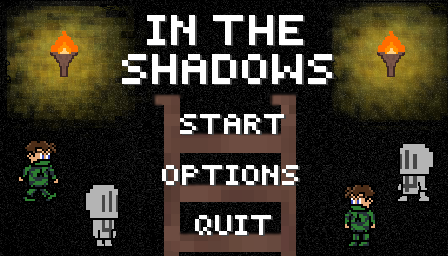
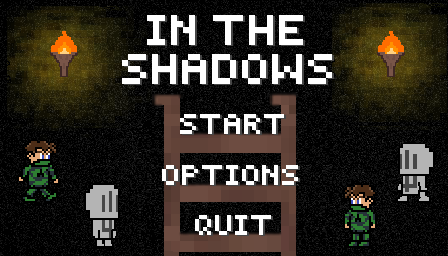
New options screen + all old functionality

Changed region(s): [[0.0, 0.0, 0.2812, 0.4688], [0.7188, 0.0, 1.0, 0.4688]]

diff --git a/entities/game.py b/entities/game.py
@@ -113,6 +113,8 @@ class Game:
                     self.__board.resize_board(self.__screen, self.__width, self.__height)
                     self.__set_player_and_guards()
                     self.__fullscreen = True
+            elif self.__rects['options_back_button'].collidepoint(mouse_pos):
+                self.__state = 'menu'
 
     # Handles quitting, key presses, and mouse clicks, including in game
     def __handle_events(self):
@@ -203,6 +205,7 @@ class Game:
         self.__rects['quit_text_rect'] = quit_text.get_rect()
         self.__rects['quit_text_rect'].center = (1.02*quit_width, quit_height + 1.6*quit_height // 4)
 
+        # animates torches
         if self.__home_screen_anim:
             background = pygame.image.load("assets/graphics/Backgrounds/Home_screen_1.png")
         else:
@@ -217,8 +220,16 @@ class Game:
 
     # Runs the options
     def __run_options(self):
-        background = pygame.image.load("assets/graphics/Backgrounds/woodBackground.png")
+        if self.__move_counter % 15 == 0:
+            self.__home_screen_anim = not self.__home_screen_anim
+
+        # animates torches
+        if self.__home_screen_anim:
+            background = pygame.image.load("assets/graphics/Backgrounds/Options_1.png")
+        else:
+            background = pygame.image.load("assets/graphics/Backgrounds/Options_2.png")
         background = pygame.transform.scale(background, (self.__width, self.__height))
+
         self.__screen.background_surface.fill(self.__black)
         self.__screen.background_surface.blit(background, (0, 0))
 
@@ -229,63 +240,72 @@ class Game:
         text = big_font.render('OPTIONS', True, self.__white)
         text_rect = text.get_rect()
         text_rect.center = (opt_width, opt_height)
-        self.__screen.background_surface.blit(text, text_rect)
+        # self.__screen.background_surface.blit(text, text_rect)
 
         (diff_width, diff_height) = (opt_width // 2, opt_height + self.__height // 6)
-        difficulty = small_font.render('SELECT DIFFICULTY', True, (255, 255, 255))
-        difficulty_rect = difficulty.get_rect()
-        difficulty_rect.center = (diff_width, diff_height)
-        self.__screen.background_surface.blit(difficulty, difficulty_rect)
+        # difficulty = small_font.render('SELECT DIFFICULTY', True, (255, 255, 255))
+        # difficulty_rect = difficulty.get_rect()
+        # difficulty_rect.center = (diff_width, diff_height)
+        # self.__screen.background_surface.blit(difficulty, difficulty_rect)
+
+        # back button
+        self.__rects['options_back_button'] = pygame.Rect((0.05*self.__width, 0.06*self.__height), (0.08*self.__width, 0.09*self.__height))
 
         (easy_width, easy_height) = (diff_width, diff_height + self.__height // 8)
-        easy_difficulty = small_font.render('EASY', True, (0, 153, 0))
+        easy_difficulty = small_font.render('EASY_', True, (0, 153, 0))
         self.__rects['easy_difficulty_rect'] = easy_difficulty.get_rect()
         self.__rects['easy_difficulty_rect'].center = (easy_width, easy_height)
-        self.__screen.background_surface.blit(easy_difficulty, self.__rects['easy_difficulty_rect'])
+        # self.__screen.background_surface.blit(easy_difficulty, self.__rects['easy_difficulty_rect'])
 
-        (med_width, med_height) = (diff_width, easy_height + self.__height // 8)
-        medium_difficulty = small_font.render('MEDIUM', True, (255, 128, 0))
+        (med_width, med_height) = (diff_width, easy_height + 1.27*self.__height // 8)
+        medium_difficulty = small_font.render('_MEDIUM_', True, (255, 128, 0))
         self.__rects['medium_difficulty_rect'] = medium_difficulty.get_rect()
         self.__rects['medium_difficulty_rect'].center = (med_width, med_height)
-        self.__screen.background_surface.blit(medium_difficulty, self.__rects['medium_difficulty_rect'])
+        # self.__screen.background_surface.blit(medium_difficulty, self.__rects['medium_difficulty_rect'])
 
-        (hard_width, hard_height) = (diff_width, med_height + self.__height // 8)
-        hard_difficulty = small_font.render('HARD', True, (255, 0, 0))
+        (hard_width, hard_height) = (diff_width, med_height + 1.30*self.__height // 8)
+        hard_difficulty = small_font.render('HARD_', True, (255, 0, 0))
         self.__rects['hard_difficulty_rect'] = hard_difficulty.get_rect()
         self.__rects['hard_difficulty_rect'].center = (hard_width, hard_height)
-        self.__screen.background_surface.blit(hard_difficulty, self.__rects['hard_difficulty_rect'])
+        # self.__screen.background_surface.blit(hard_difficulty, self.__rects['hard_difficulty_rect'])
 
         match self.__difficulty:
             case "EASY":
-                color = (0, 153, 0)
+                mode = pygame.image.load("assets/graphics/Backgrounds/Options_easy.png")
+                # color = (0, 153, 0)
             case "MEDIUM":
-                color = (255, 128, 0)
+                mode = pygame.image.load("assets/graphics/Backgrounds/Options_medium.png")
+                # color = (255, 128, 0)
             case "HARD":
-                color = (255, 0, 0)
+                mode = pygame.image.load("assets/graphics/Backgrounds/Options_hard.png")
+                # color = (255, 0, 0)
             case _:
-                color = (255, 255, 255)
-        text = small_font.render(str(self.__difficulty) + "  MODE  CHOSEN!", True, color)
-        text_rect = text.get_rect()
-        text_rect.center = (diff_width, hard_height + self.__height // 8)
-        self.__screen.background_surface.blit(text, text_rect)
+                mode = pygame.image.load("assets/graphics/Backgrounds/Options_easy.png")
+                # color = (255, 255, 255)
+        mode = pygame.transform.scale(mode, (self.__width, self.__height))
+        self.__screen.background_surface.blit(mode, (0,0))
+        # text = small_font.render(str(self.__difficulty) + "  MODE  CHOSEN!", True, color)
+        # text_rect = text.get_rect()
+        # text_rect.center = (diff_width, hard_height + self.__height // 8)
+        # self.__screen.background_surface.blit(text, text_rect)
 
         (res_width, res_height) = (self.__width - self.__width // 4, opt_height + self.__height // 6)
-        resolution = small_font.render('SELECT  RESOLUTION', True, self.__white)
-        resolution_rect = resolution.get_rect()
-        resolution_rect.center = (res_width, res_height)
-        self.__screen.background_surface.blit(resolution, resolution_rect)
+        # resolution = small_font.render('SELECT  RESOLUTION', True, self.__white)
+        # resolution_rect = resolution.get_rect()
+        # resolution_rect.center = (res_width, res_height)
+        # self.__screen.background_surface.blit(resolution, resolution_rect)
 
         (res_def_width, res_def_height) = (res_width, res_height + self.__height // 8)
-        resolution_def = small_font.render('WINDOW  MODE', True, self.__white)
+        resolution_def = small_font.render('_WINDOW_', True, (255, 0, 0))
         self.__rects['resolution_def_rect'] = resolution_def.get_rect()
-        self.__rects['resolution_def_rect'].center = (res_def_width, res_def_height)
-        self.__screen.background_surface.blit(resolution_def, self.__rects['resolution_def_rect'])
+        self.__rects['resolution_def_rect'].center = (1.02*res_def_width, res_def_height)
+        # self.__screen.background_surface.blit(resolution_def, self.__rects['resolution_def_rect'])
 
         (res_2_width, res_2_height) = (res_width, res_def_height + self.__height // 8)
-        resolution_2 = small_font.render('FULLSCREEN  MODE', True, self.__white)
+        resolution_2 = small_font.render('00__FULLSCREEN_0', True, (255, 0, 0))
         self.__rects['resolution_2_rect'] = resolution_def.get_rect()
-        self.__rects['resolution_2_rect'].center = (res_2_width, res_2_height)
-        self.__screen.background_surface.blit(resolution_2, self.__rects['resolution_2_rect'])
+        self.__rects['resolution_2_rect'].center = (0.93*res_2_width, 1.07*res_2_height)
+        # self.__screen.background_surface.blit(resolution_2, self.__rects['resolution_2_rect'])
 
         pygame.display.update()
 
